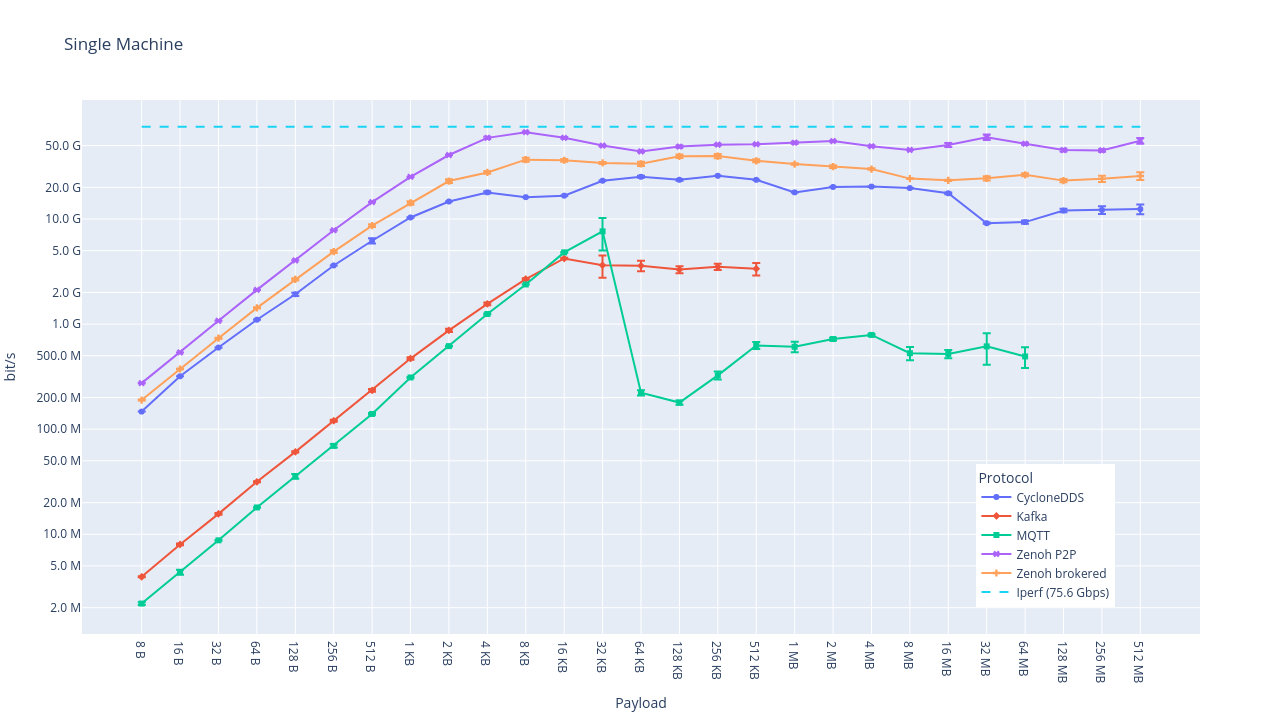
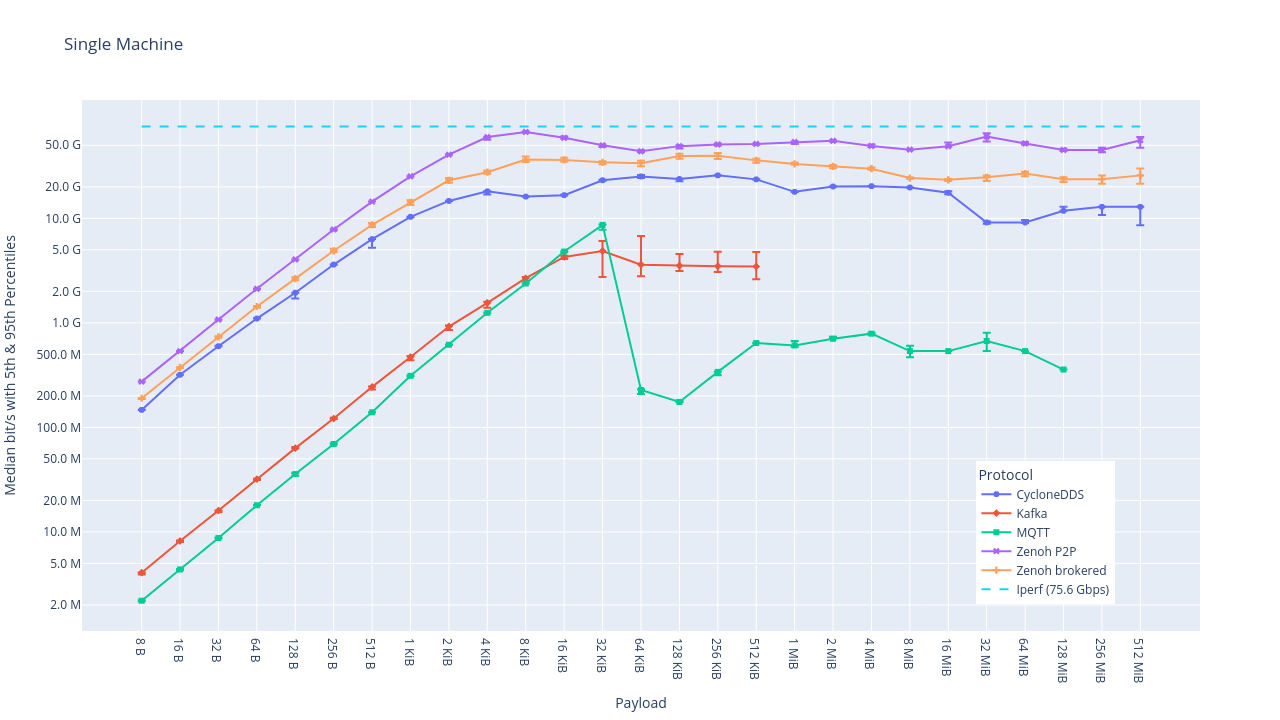
Update new data and link tabular data to ZettaScale/zenoh-perf

diff --git a/content/blog/2023-03-17-zenoh-vs-mqtt-kafka-dds.md b/content/blog/2023-03-17-zenoh-vs-mqtt-kafka-dds.md
@@ -25,15 +25,15 @@ MQTT and Kafka adopt a brokered communication model where every message must go
 through a broker. Differently, DDS adopts a peer-to-peer communication model
 where messages are directly exchanged between publishers and subscribers
 without any middleman. Zenoh supports both the brokered and the peer-to-peer
-communication models, as well as a routed infrastructure mode. 
-Fig. 1 illustrates the models with mixed topology, in which 
+communication models, as well as a routed infrastructure mode.
+Fig. 1 illustrates the models with mixed topology, in which
 Mesh and Clique are peer-to-peer models. See the various [deployment
 models](https://zenoh.io/docs/getting-started/deployment/) for more insights.
 For a fair comparison with MQTT, Kafka, and DDS, both brokered and peer-to-peer
 modes are used in Zenoh.
 
 {{< figure-inline
-    src="../../img/2023-03-09-performance-comparison/topology.png"
+    src="../../img/20230309-performance-comparison/topology.png"
     caption="Fig. 1 Topology offered by Zenoh"
     class="figure-inline"
     alt="Topology offered by Zenoh"
@@ -51,7 +51,7 @@ mode and DDS tests, the data pass directly from the publisher to the
 subscriber.
 
 {{< figure-inline
-    src="../../img/2023-03-09-performance-comparison/throughput-configuration.png"
+    src="../../img/20230309-performance-comparison/throughput-configuration.png"
     caption="Fig. 2 The configuration diagram for throughput tests"
     class="figure-inline"
     alt="The configuration diagram for throughput tests"
@@ -65,7 +65,7 @@ the Zenoh peer mode and DDS, the data will be passed between the ping
 and pong nodes directly.
 
 {{< figure-inline
-    src="../../img/2023-03-09-performance-comparison/latency-configuration.png"
+    src="../../img/20230309-performance-comparison/latency-configuration.png"
     caption="Fig. 2 The configuration diagram for latency tests"
     class="figure-inline"
     alt="The configuration diagram for latency tests"
@@ -81,7 +81,7 @@ configuration for each of the used machines.
 
 Tab. 1 The configuration of the testing machines
 
-{{< table "table table-striped table-bordered" >}}
+{{< table "table table-striped table-bordered w-auto" >}}
 | Type    | Specification                                                                          |
 |---------|----------------------------------------------------------------------------------------|
 | OS      | Ubuntu 20.04.3 LTS                                                                     |
@@ -98,7 +98,7 @@ All the benchmark programs can be found under the [Zenoh performance
 test
 project](https://github.com/ZettaScaleLabs/zenoh-perf/tree/master/comparison).
 
-For Zenoh, the 
+For Zenoh, the
 [test programs](https://github.com/ZettaScaleLabs/zenoh-perf/tree/master/comparison/zenoh)
 use [version 0.7.0-rc](https://github.com/eclipse-zenoh/zenoh/tree/0.7.0-rc)
 and the Zenoh router `zenohd` can be built by following this
@@ -107,7 +107,7 @@ reliability was set to "reliable" and the congestion control option was set to
 "Block" on the publisher side. For the latency measurements, its reliability
 was set to "BestEffort" to align with the behavior of Kafka and MQTT.
 
-For MQTT, the 
+For MQTT, the
 [test programs](https://github.com/ZettaScaleLabs/zenoh-perf/tree/master/comparison/mqtt)
 use [Eclipse Mosquitto version 2.0.15](https://github.com/eclipse/mosquitto/archive/refs/tags/v2.0.15.tar.gz).
 The MQTT clients were implemented with the [Eclipse Paho MQTT C client
@@ -142,7 +142,7 @@ throughput tests.
 
 In the throughput tests, the publisher program publishes messages
 back-to-back. The consumer program subscribed to the same topic collects
-a set of messages and calculates the average message rate (msg/s). The
+a set of messages and calculates the median message rate (msg/s). The
 same procedure is applied to Zenoh, Cyclone DDS (briefly represented as
 DDS below), MQTT, and Kafka. The bitrates (bit/s) were also calculated
 based on the message rate and the payload size. In addition, the
@@ -150,13 +150,13 @@ based on the message rate and the payload size. In addition, the
 application layer between two peers. Various payload sizes from 8 bytes
 to 512 MB were tested to see the trend of the throughput. Note that in
 the charts below, the Y-axis is shown in the log scale for both the
-message rate and bitrate. The full dataset and raw data can be found 
-[here](https://github.com/YuanYuYuan/zenoh-tests/tree/blog/comparison#numeric-details-in-table). 
+message rate and bitrate. The full dataset and raw data can be found
+[here](https://github.com/ZettaScaleLabs/zenoh-perf/tree/master/comparison#numerical-results).
 Some of the numbers will be reported in the following
 paragraphs for discussion purposes.
 
 {{< figure-inline
-    src="../../img/2023-03-09-performance-comparison/plots/single/message_per_second.png"
+    src="../../img/20230309-performance-comparison/plots/single/message_per_second.png"
     caption="Fig. 4 Throughput data in msg/s for the single-machine scenario"
     class="figure-inline"
     alt="Throughput data in msg/s for the single-machine scenario"
@@ -165,8 +165,8 @@ paragraphs for discussion purposes.
 Fig. 4 shows the results for the single-machine scenario. From the
 figure, we can see that Zenoh can reach up to more than 4M msg/s for
 small payload sizes. Among the two lines for Zenoh, the peer mode
-(indicated by `Zenoh-p2p`) provides better results than that of the
-client mode (marked by `Zenoh-brokered`), because the data
+(indicated by `Zenoh P2P`) provides better results than that of the
+client mode (marked by `Zenoh brokered`), because the data
 transmission doesn't need to be relayed by the Zenoh router. DDS,
 although slower, is relatively close to Zenoh and can still reach up to
 2M msg/s. Note that in the charts, the Y-axis is in the log scale.
@@ -183,7 +183,7 @@ behind the observed limitation is that the Kafka bindings we used failed
 on extending the message size over 1 MB.
 
 {{< figure-inline
-    src="../../img/2023-03-09-performance-comparison/plots/single/bit_per_second.png"
+    src="../../img/20230309-performance-comparison/plots/single/bit_per_second.png"
     caption="Fig. 5 Throughput data in bit/s for the single-machine scenario"
     class="figure-inline"
     alt="Throughput data in bit/s for the single-machine scenario"
@@ -191,11 +191,11 @@ on extending the message size over 1 MB.
 
 Fig. 5 provides the throughput in bits-per-second (bit/s or bps). It
 shows that Zenoh starts to saturate closer to the ideal throughput
-measured by `iperf` (at 76 Gpbs) for the payload size equal to or
-larger than 4 KB. The peer mode `Zenoh-p2p` can reach up to 67 Gbps.
+measured by `iperf` (at 75 Gpbs) for the payload size equal to or
+larger than 8 KB. The peer mode `Zenoh P2P` can reach up to 67 Gbps.
 For DDS, the highest throughput achieved is 26 Gpbs. Kafka appears to
-saturate at about 3\~4 Gbps when the payload size is larger than 16 KB.
-For MQTT, it reaches up to 8 Gbps at the payload size of 32 KB. The
+saturate at about 4\~5 Gbps when the payload size is larger than 16 KB.
+For MQTT, it reaches up to 9 Gbps at the payload size of 32 KB. The
 performance degradation phenomenon of MQTT appeared in the tests
 consistently. The reason behind this is still unknown and will be worth
 further study in the future.
@@ -213,14 +213,14 @@ The throughput across multiple machines over a 100 Gb Ethernet is shown
 in Fig. 6 and Fig. 7. We will mainly focus on the bitrate results here.
 
 {{< figure-inline
-    src="../../img/2023-03-09-performance-comparison/plots/multi/message_per_second.png"
+    src="../../img/20230309-performance-comparison/plots/multi/message_per_second.png"
     caption="Fig. 6 Throughput data in msg/s for the multiple-machine scenario"
     class="figure-inline"
     alt="Throughput data in msg/s for the multiple-machine scenario"
     width="100%" >}}
 
 {{< figure-inline
-    src="../../img/2023-03-09-performance-comparison/plots/multi/bit_per_second.png"
+    src="../../img/20230309-performance-comparison/plots/multi/bit_per_second.png"
     caption="Fig. 7 Throughput data in bit/s for the multiple-machine scenario"
     class="figure-inline"
     alt="Throughput data in bit/s for the multiple-machine scenario"
@@ -228,7 +228,7 @@ in Fig. 6 and Fig. 7. We will mainly focus on the bitrate results here.
 
 In the figure, `iperf` shows that the ideal throughput of the target
 network is 44 Gpbs. The maximal bitrate is about 34 Gbps for
-`Zenoh-brokered` and 51 Gbps for `Zenoh-p2p`, respectively. For
+`Zenoh brokered` and 51 Gbps for `Zenoh P2P`, respectively. For
 Cyclone DDS, its throughput ranking remains at number three in the
 charts at 14 Gbps. On the other hand, MQTT\'s bitrates can reach up to 9
 Gbps at the payload size of 32 KB and then goes down, similar to the
@@ -248,7 +248,7 @@ the ping. The tested payload size is fixed at 64 bytes (aligned with
 ICMP echo/reply), and the testing is performed in a back-to-back manner
 to reduce the impact of the process scheduling and the context switches
 induced by the underlying operating system. The latency is defined as
-half of the average round-trip time covering the ping and pong
+half of the median round-trip time covering the ping and pong
 operations. Tab. 2 shows the results of the tests. The Linux `ping`
 utility was included as a baseline of the minimum latency that can be
 achieved.
@@ -258,11 +258,11 @@ Tab. 2 Latency data in µs (microseconds) for the single-machine and multiple-ma
 {{< table "table table-striped table-bordered w-auto" >}}
 | Target           | Single-machine               | Multiple-machine               |
 | ---------------- | ---------------------------- | ------------------------------ |
-| Kafka            | 73                           | 84                             |
+| Kafka            | 73                           | 81                             |
 | MQTT             | 27                           | 45                             |
-| Cyclone DDS      | 8                            | 38                             |
-| Zenoh-brokered   | 21                           | 41                             |
-| Zenoh-p2p        | 10                           | 16                             |
+| Cyclone DDS      | 8                            | 37                             |
+| Zenoh brokered   | 21                           | 41                             |
+| Zenoh P2P        | 10                           | 16                             |
 | Zenoh-pico       | 5                            | 13                             |
 | ping             | 1                            | 7                              |
 {{< /table >}}
@@ -270,13 +270,13 @@ Tab. 2 Latency data in µs (microseconds) for the single-machine and multiple-ma
 
 For the single-machine environment, the ideal latency value obtained
 from `ping` is 1 µs. MQTT and Kafka have a latency of 73 µs and 27 µs,
-respectively. As for Zenoh, while the client mode `Zenoh-brokered` has
+respectively. As for Zenoh, while the client mode `Zenoh brokered` has
 a latency of 21 µs, mainly due to routing data through a middleman,
-`Zenoh-p2p` shows that it can be further reduced to 10 µs. For Cyclone
+`Zenoh P2P` shows that it can be further reduced to 10 µs. For Cyclone
 DDS, the latency is even lower than Zenoh, achieving down to 8 µs. The
 reason is that it's using UDP Multicast. Although Zenoh currently hasn't
 implemented the same data transport yet, the microcontroller
-implementation of Zenoh -- Zenoh-pico -- has already realized this. As a
+implementation of Zenoh -- `Zenoh-pico` -- has already realized this. As a
 result, we've also tested its latency and the result is 5 µs, as
 indicated by `Zenoh-pico`, which is even lower than that of Cyclone
 DDS, mainly because the Zenoh protocol and its implementation can be
@@ -284,9 +284,9 @@ more lightweight and efficient than the OMG DDSI-RTPS protocol
 (implemented by all DDS-compliant implementations).
 
 For the multiple-machine scenario over a real network with 100 Gb
-Ethernet, the latency for the `Zenoh-brokered` is about 41 µs, and the
-number of `Zenoh-p2p` for the peer mode is 16 µs, which is lower than
-that for Kafka at 84 µs, MQTT at 45 µs, and Cyclone DDS at 38 µs. For
+Ethernet, the latency for the `Zenoh brokered` is about 41 µs, and the
+number of `Zenoh P2P` for the peer mode is 16 µs, which is lower than
+that for Kafka at 81 µs, MQTT at 45 µs, and Cyclone DDS at 37 µs. For
 `Zenoh-pico`, it remains the best one at 13 µs, closest to the
 baseline obtained by the `ping` utility at 7 µs.
 
@@ -306,8 +306,8 @@ classic baseline tools `iperf` and `ping` for throughput and latency
 evaluation from the application layer, thanks to the low overhead design
 and multiple optimization techniques embedded in Zenoh's implementation.
 
-In our evaluation, Zenoh achieved up to 67 Gbps throughput on
-single-machine tests and 51 Gbps on multiple-machine tests with a 100
+In our evaluation, Zenoh achieved up to **67** Gbps throughput on
+single-machine tests and **51** Gbps on multiple-machine tests with a 100
 GbE network when the default peer mode was used. It can reach up to 1\~2
 orders of magnitude improvement on MQTT and Kafka and could double the
 throughput of DDS. One noticeable thing is that Cyclone DDS performed
